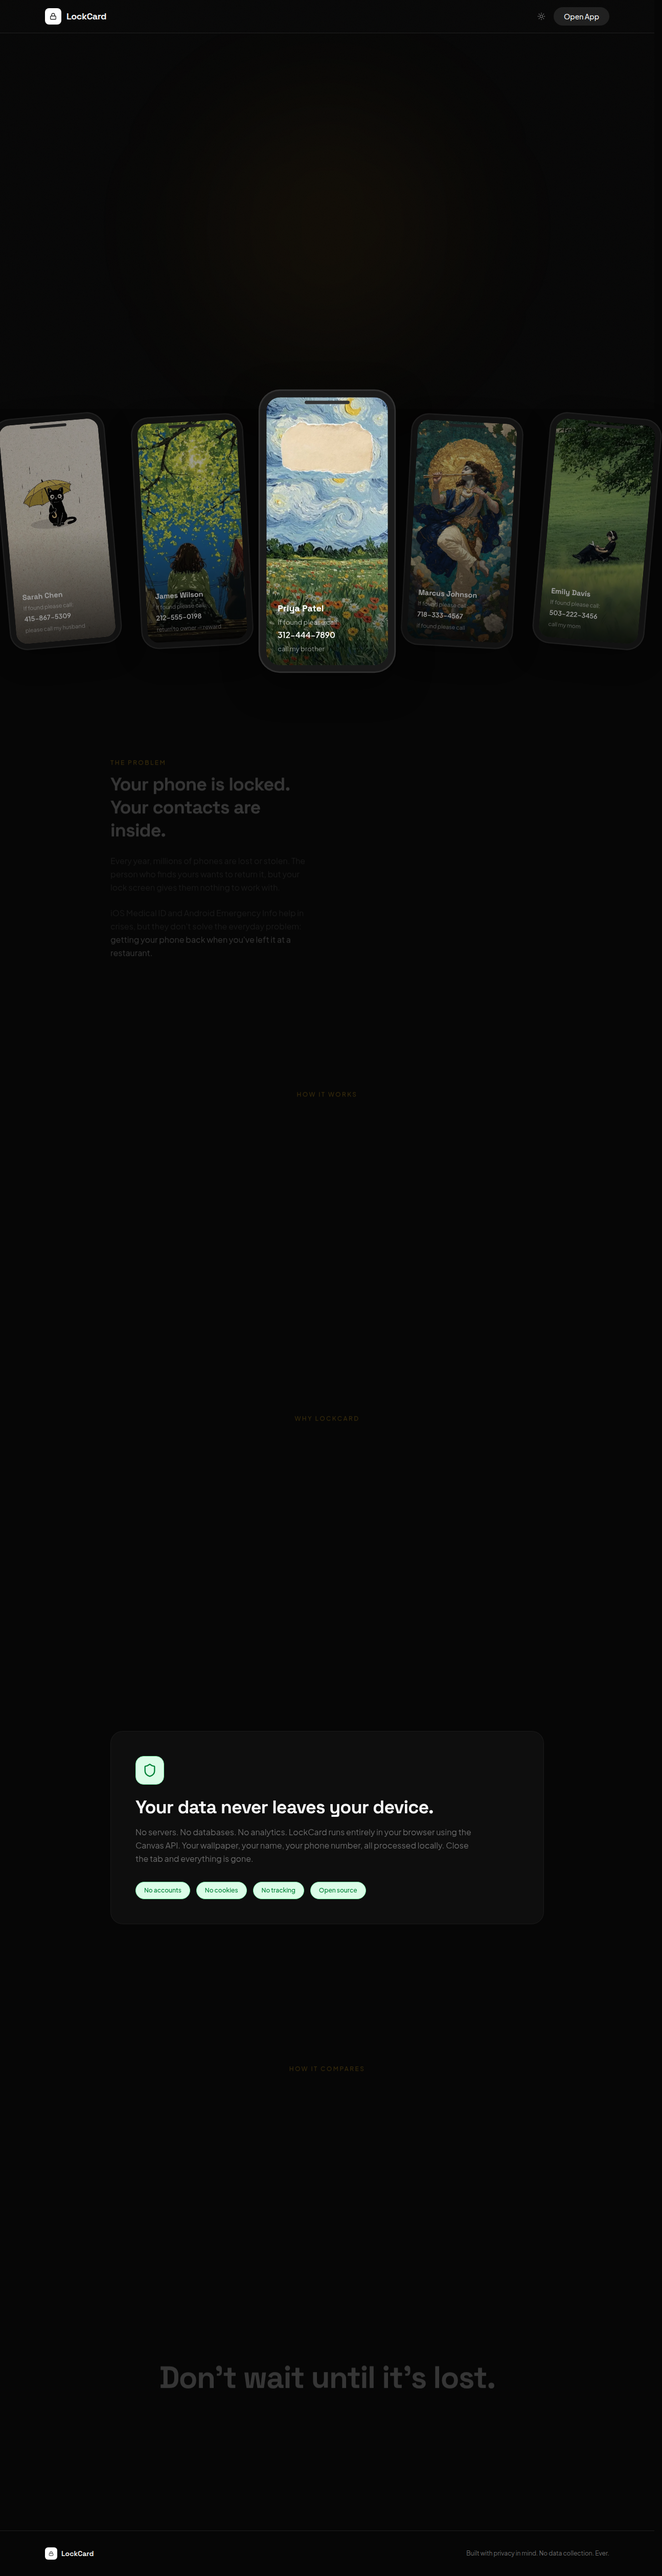
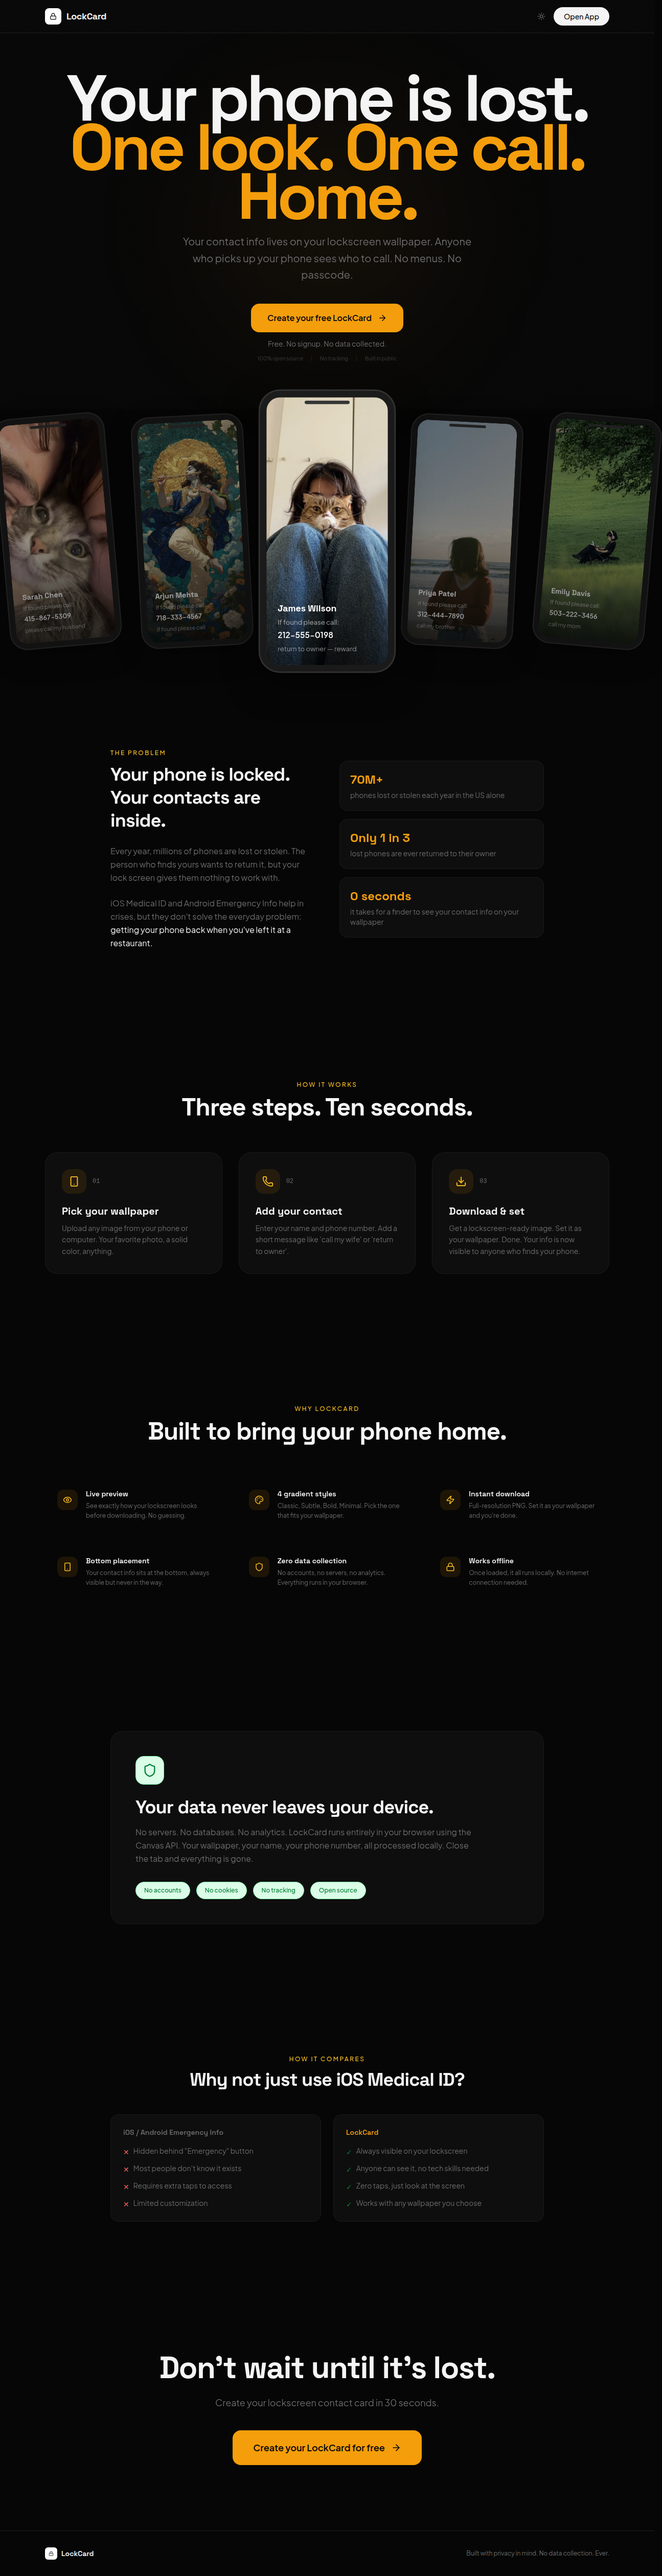
update README with marketing copy and fresh screenshot

diff --git a/README.md b/README.md
@@ -1,3 +1,43 @@
-# Lockcard
+# LockCard
 
-![Lockcard Screenshot](screenshot.png)
+![LockCard Screenshot](screenshot.png)
+
+**Turn any wallpaper into a lockscreen contact card.** If your phone is lost, the finder knows who to call — instantly. No passcode. No menus. Just one look.
+
+Every year, **70M+ phones** are lost or stolen. Only **1 in 3** ever make it back. Most people want to return a lost phone — they just don't know who to call. LockCard puts your contact info front and center on your lockscreen, so a good Samaritan can reach you in seconds.
+
+## How It Works
+
+1. **Upload** any wallpaper (photo, solid color, anything)
+2. **Enter** your name, phone number, and a short message
+3. **Download** a full-resolution PNG and set it as your lockscreen
+
+That's it. Ten seconds. Done.
+
+## Features
+
+- **Live preview** — See exactly how it looks before you download
+- **4 gradient styles** — Classic, Subtle, Bold, Minimal
+- **Full resolution** — Download at your wallpaper's original resolution
+- **Zero data collection** — No servers, no accounts, no analytics. Everything runs in your browser using the Canvas API. Close the tab and it's gone.
+- **100% open source** — Built in public. No tracking. No signup. Free forever.
+- **Works offline** — After the initial load, everything runs locally
+
+## Why LockCard?
+
+| iOS/Android Emergency Info | LockCard |
+|---|---|
+| Hidden behind "Emergency" button | Always visible on your lockscreen |
+| Most people don't know it exists | Anyone can see it, no tech skills needed |
+| Requires extra taps to access | Zero taps — just look at the screen |
+| Limited customization | Works with any wallpaper, any gradient |
+
+## Getting Started
+
+```bash
+npm run dev     # Start the dev server
+npm run build   # Production build
+npm run deploy  # Deploy to Cloudflare Pages
+```
+
+Built with React, TypeScript, Tailwind CSS, and Vite.
